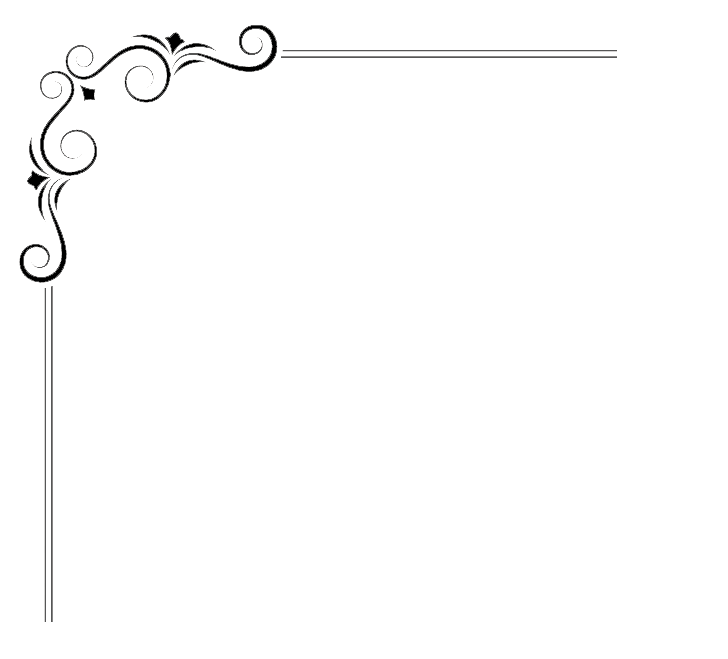
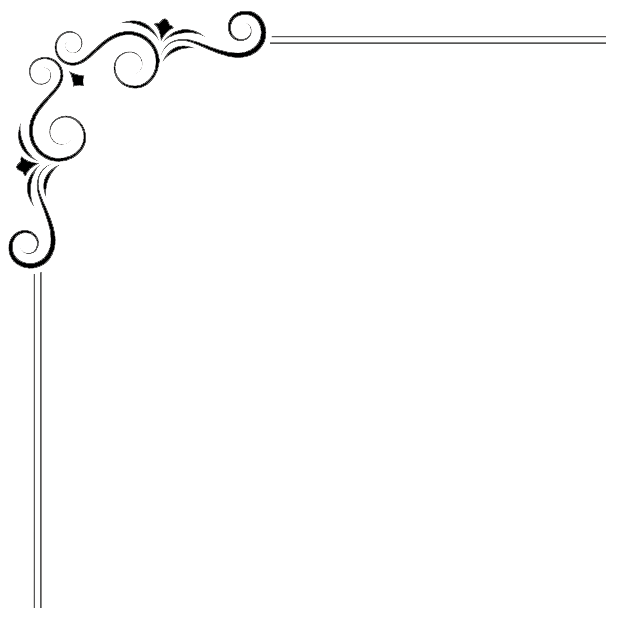
layout fixes

Changed region(s): [[0.0, 0.0, 0.9515, 0.9822]]

diff --git a/components/NewspaperLetter.tsx b/components/NewspaperLetter.tsx
@@ -130,21 +130,37 @@ export default function NewspaperLetter({ guestName, guestId, hasRsvp, rsvpAtten
                 {t(i18n.language === 'es' ? 'langEN' : 'langES')}
             </button>
 
+            {/*─────────────────────────────────────────
+            CAFESITO FULL WIDTH (OUTSIDE PADDING)
+            ───────────────────────────────────────── */}
+            <div style={{ width: '100%', marginBottom: '0' }}>
+                <img src="/cafesito.jpeg" alt="" style={{ width: '100%', height: 'auto', display: 'block' }} />
+            </div>
+
+            {/*─────────────────────────────────────────
+            PORTADA (OUTSIDE PADDING)
+            ───────────────────────────────────────── */}
+            <Reveal>
+                <div style={{ width: '100%', margin: '0 0 1.5rem 0', overflow: 'hidden', background: 'rgba(26,18,8,0.05)', display: 'flex', alignItems: 'center', justifyContent: 'center', borderTop: '1px solid rgba(26,18,8,0.18)', borderBottom: '1px solid rgba(26,18,8,0.18)' }}>
+                    <img src="/portada.jpg" alt="Portada exclusiva" style={{ width: '100%', height: 'auto', display: 'block' }} />
+                </div>
+            </Reveal>
+
             {/* Inner content padding */}
-            <div style={{ padding: '3rem 2.25rem 4rem', position: 'relative' }}>
+            <div style={{ padding: '1rem 2.25rem 4rem', position: 'relative' }}>
 
                 {/*─────────────────────────────────────────
                 TOP DECORATIVE ROW
                 ───────────────────────────────────────── */}
-                <div style={{ display: 'flex', justifyContent: 'space-between', alignItems: 'flex-start', marginBottom: '1.5rem' }}>
+                <div style={{ display: 'flex', justifyContent: 'space-between', alignItems: 'flex-start', marginBottom: '1.5rem', position: 'relative' }}>
                     {/* Left corner flourish */}
-                    <div style={{ display: 'flex', flexDirection: 'column', gap: '2px', opacity: 0.55, lineHeight: 1 }}>
-                        <img src="/adorno-esquina.png" alt="" style={{ width: '400px', height: 'auto', position: 'absolute' }} />
+                    <div style={{ display: 'flex', flexDirection: 'column', gap: '2px', opacity: 0.55, lineHeight: 1, margin: '-10px' }}>
+                        <img src="/adorno-esquina-2.png" alt="" style={{ width: '320px', height: 'auto', position: 'absolute', left: '-25px' }} />
                     </div>
 
                     {/* Right: "Guarda la fecha" box */}
                     <div style={{ flexShrink: 0, marginLeft: '1rem' }}>
-                        <img src="/guarda-la-fecha.png" alt="Guarda la fecha" style={{ width: '140px', height: 'auto' }} />
+                        <img src="/guarda-la-fecha-2.png" alt="Guarda la fecha" style={{ width: '180px', height: 'auto', position: 'absolute', right: '0', top: '0' }} />
                     </div>
                 </div>
 
@@ -152,7 +168,7 @@ export default function NewspaperLetter({ guestName, guestId, hasRsvp, rsvpAtten
                 GOTHIC HERO TITLE  "Nos vemos el 24 de Abril"
                 ───────────────────────────────────────── */}
                 <Reveal>
-                    <div style={{ marginBottom: '1.5rem', display: 'flex', justifyContent: 'center', alignItems: 'center', gap: '0.5rem', position: 'relative' }}>
+                    <div style={{ marginBottom: '1.5rem', display: 'flex', justifyContent: 'center', alignItems: 'center', gap: '0.5rem', position: 'relative', marginTop: '5rem' }}>
                         <div style={{ display: 'flex', flexDirection: 'column', alignItems: 'center', textAlign: 'center', gap: '0.5rem', flex: 1 }}>
                             <h1 className="masthead" style={{ fontSize: 'clamp(3.5rem, 13vw, 8rem)', lineHeight: 0.9, color: 'var(--ink)', width: '100%' }}>
                                 {t('nosVemos')}
@@ -215,14 +231,7 @@ export default function NewspaperLetter({ guestName, guestId, hasRsvp, rsvpAtten
                     </div>
                 </Reveal>
 
-                {/* Full-width square photo after Exclusiva */}
-                <Reveal>
-                    <div style={{ width: '100%', marginBottom: '1.5rem', overflow: 'hidden', background: 'rgba(26,18,8,0.05)', display: 'flex', alignItems: 'center', justifyContent: 'center', border: '1px solid rgba(26,18,8,0.18)' }}>
-                        <img src="/portada.jpg" alt="Portada exclusvia" style={{ width: '100%', height: 'auto', display: 'block' }} />
-                    </div>
-                </Reveal>
 
-                <hr className="rule" />
 
                 {/*─────────────────────────────────────────
                 TE INVITAMOS — newspaper column-wrap layout
@@ -295,16 +304,29 @@ export default function NewspaperLetter({ guestName, guestId, hasRsvp, rsvpAtten
                     </h1>
                 </Reveal>
 
-                {/*── 3-COLUMN: photo | text col 1 | text col 2 ──*/}
+                {/*── 3-COLUMN Grid (Responsive) ──*/}
+                <style>{`
+                    .brenda-david-grid {
+                        display: flex;
+                        gap: 1.25rem;
+                        align-items: stretch;
+                        margin-bottom: 1.5rem;
+                    }
+                    .bd-text-container {
+                        display: flex;
+                        flex: 1;
+                        gap: 1.25rem;
+                    }
+                    @media (max-width: 768px) {
+                        .bd-text-container {
+                            flex-direction: column;
+                        }
+                    }
+                `}</style>
                 <Reveal>
-                    <div style={{
-                        display: 'flex',
-                        gap: '1.25rem',
-                        alignItems: 'stretch',
-                        marginBottom: '1.5rem',
-                    }}>
+                    <div className="brenda-david-grid">
                         {/* Photo col — fills height */}
-                        <div style={{ flex: '0 0 34%' }}>
+                        <div style={{ flex: '0 0 50%' }}>
                             <img
                                 src="/foto-1.jpeg"
                                 alt="Celebración"
@@ -318,15 +340,14 @@ export default function NewspaperLetter({ guestName, guestId, hasRsvp, rsvpAtten
                                 }}
                             />
                         </div>
-                        {/* Text col 1 */}
-                        <div style={{ flex: 1, display: 'flex', flexDirection: 'column', gap: '0.7rem' }}>
-                            <p>{t('bodaNoTradicional')}</p>
-                            <p>{t('outfit1')}</p>
-                        </div>
-                        {/* Text col 2 */}
-                        <div style={{ flex: 1, display: 'flex', flexDirection: 'column', gap: '0.7rem' }}>
-                            <p>{t('outfit2')}</p>
-                            <p>{t('outfit3')}</p>
+                        {/* Text columns wrapping container */}
+                        <div className="bd-text-container">
+                            <div style={{ flex: 1, display: 'flex', flexDirection: 'column', gap: '0.7rem' }}>
+                                <p>{t('bodaNoTradicional')}</p>
+                                <p>{t('outfit1')}</p>
+                                <p>{t('outfit2')}</p>
+                                <p>{t('outfit3')}</p>
+                            </div>
                         </div>
                     </div>
                 </Reveal>
@@ -345,7 +366,7 @@ export default function NewspaperLetter({ guestName, guestId, hasRsvp, rsvpAtten
                         {/* Left: all event info */}
                         <div style={{ flex: '1', display: 'flex', flexDirection: 'column', gap: '1rem', paddingRight: '0.5rem' }}>
                             {/* Dónde */}
-                            <div style={{ display: 'flex', justifyContent: 'space-between', alignItems: 'flex-start' }}>
+                            <div style={{ display: 'flex', flexDirection: 'column', gap: '0.5rem' }}>
                                 <div>
                                     <p className="serif" style={{ fontStyle: 'italic', fontSize: '1.15rem', fontWeight: 600, textAlign: 'left', marginBottom: '0.25rem' }}>
                                         {t('donde')}
@@ -356,7 +377,7 @@ export default function NewspaperLetter({ guestName, guestId, hasRsvp, rsvpAtten
                                         Montalvo y Antonio Sucre
                                     </p>
                                 </div>
-                                {/* QR */}
+                                {/* QR (moved below Dónde) */}
                                 <div style={{ border: '1px solid var(--ink)', padding: '5px', background: '#fff', width: '80px', flexShrink: 0 }}>
                                     <div style={{
                                         width: '100%', aspectRatio: '1',
@@ -383,12 +404,7 @@ export default function NewspaperLetter({ guestName, guestId, hasRsvp, rsvpAtten
                                 </p>
                             </div>
                             {/* Dress code */}
-                            <div style={{ display: 'flex', gap: '0.75rem', alignItems: 'center' }}>
-                                <div style={{
-                                    width: '42px', height: '42px', borderRadius: '50%', flexShrink: 0,
-                                    background: 'conic-gradient(#f5abd1 0deg 45deg, #f6b5f3 45deg 90deg, #c3aeeb 90deg 135deg, #8fdaff 135deg 180deg, #e8b496 180deg 225deg, #aabb7c 225deg 270deg, #8f8f8f 270deg 315deg, #9cdfd9 315deg 360deg)',
-                                    boxShadow: '0 2px 6px rgba(0,0,0,0.18)',
-                                }} />
+                            <div style={{ display: 'flex', flexDirection: 'column', gap: '0.75rem', alignItems: 'flex-start' }}>
                                 <div>
                                     <p className="serif" style={{ fontStyle: 'italic', fontSize: '1.05rem', fontWeight: 600, textAlign: 'left', marginBottom: '0.1rem' }}>
                                         {t('dresscode')} <strong className="sans" style={{ fontStyle: 'normal', letterSpacing: '1px' }}>formal</strong>
@@ -397,17 +413,46 @@ export default function NewspaperLetter({ guestName, guestId, hasRsvp, rsvpAtten
                                         {t('noBlanco')}
                                     </p>
                                 </div>
+                                {/* 12 Dress Code Circles */}
+                                <div style={{ display: 'flex', flexWrap: 'wrap', gap: '8px', maxWidth: '200px' }}>
+                                    {[
+                                        ['#EE7EA0', '#FFA9BA', '#E2C9DC', '#E7CDF6'],
+                                        ['#F6EFFF', '#CDBDEB', '#9A81B0', '#FFE6F5'],
+                                        ['#EA7D70', '#F69F95', '#FBA1A0', '#FCE2E3'],
+                                        ['#FFD7D6', '#FEC6BA', '#F8DCC4', '#E1CFCA'],
+                                        ['#FFAF6E', '#FFC699', '#FECB7F', '#FFCC80'],
+                                        ['#FFE2A6', '#FBFBBC', '#FBF8CB', '#FBF4D8'],
+                                        ['#BCC07B', '#D6D7AB', '#DBE098', '#CADBBB'],
+                                        ['#BCEACF', '#D5E2D3', '#E2EDE9'],
+                                        ['#BBE6F0', '#C5DEF2', '#ABCDDE', '#D5EDF8'],
+                                        ['#7D8BE0', '#B5BEF5', '#E4EBF1'],
+                                        ['#8E715B', '#C9A98D', '#B19F9A', '#4F3F3E'],
+                                        ['#E5DACA', '#F1ECEA', '#DBD1D9']
+                                    ].map((colors, idx) => {
+                                        let gradient = '';
+                                        if (colors.length === 4) {
+                                            gradient = `conic-gradient(${colors[0]} 0deg 90deg, ${colors[1]} 90deg 180deg, ${colors[2]} 180deg 270deg, ${colors[3]} 270deg 360deg)`;
+                                        } else if (colors.length === 3) {
+                                            gradient = `conic-gradient(${colors[0]} 0deg 120deg, ${colors[1]} 120deg 240deg, ${colors[2]} 240deg 360deg)`;
+                                        } else {
+                                            gradient = `conic-gradient(${colors[0]} 0deg 180deg, ${colors[1]} 180deg 360deg)`;
+                                        }
+                                        return (
+                                            <div
+                                                key={idx}
+                                                style={{
+                                                    width: '24px',
+                                                    height: '24px',
+                                                    borderRadius: '50%',
+                                                    flexShrink: 0,
+                                                    background: gradient,
+                                                    boxShadow: '0 2px 4px rgba(0,0,0,0.12)'
+                                                }}
+                                            />
+                                        );
+                                    })}
+                                </div>
                             </div>
-
-                            <p className="birthstone" style={{
-                                fontSize: '1.8rem',
-                                color: 'var(--ink)',
-                                fontWeight: 300,
-                                textAlign: 'left',
-                                marginTop: '1rem',
-                            }}>
-                                {t('gracias')}
-                            </p>
                         </div>
                         {/* Right: photo fills full height */}
                         <div style={{ flex: '1', display: 'flex', flexDirection: 'column' }}>
@@ -482,32 +527,19 @@ export default function NewspaperLetter({ guestName, guestId, hasRsvp, rsvpAtten
                     </div>
                 </Reveal>
 
-                {/*─────────────────────────────────────────
-                RSVP FORM
-                ───────────────────────────────────────── */}
-                <Reveal>
-                    <div style={{ marginBottom: '2.5rem' }}>
-                        <p className="section-label" style={{ marginBottom: '0.5rem' }}>{t('confirmaAsistencia')}</p>
-                        <h2 className="gothic" style={{ fontSize: 'clamp(2rem, 7vw, 2.8rem)', marginBottom: '1.25rem' }}>
-                            {t('nosAcompanas')}
-                        </h2>
-                        <RSVPForm guestId={guestId} initialRsvp={hasRsvp ? rsvpAttending : null} />
-                    </div>
-                </Reveal>
 
-                <hr className="rule" />
 
                 {/*─────────────────────────────────────────
                 SONG REQUEST — PARA BAILAR
                 ───────────────────────────────────────── */}
                 <Reveal>
                     <div style={{ marginBottom: '2rem' }}>
-                        <p className="section-label" style={{ marginBottom: '0.5rem' }}>{t('playlistOficial')}</p>
+                        <p className="section-label" style={{ marginBottom: '0.5rem' }}>{t('playlist')}</p>
                         <h2 className="gothic" style={{ fontSize: 'clamp(1.8rem, 6vw, 2.5rem)', marginBottom: '0.5rem' }}>
                             {t('cancionBailar')}
                         </h2>
                         <p style={{ marginBottom: '1.25rem', textAlign: 'left' }}>
-                            {t('cancionBailarSub')}
+                            {t('cancionBailarDesc')}
                         </p>
                         <SongRequest guestId={guestId} type="dance" />
                     </div>
@@ -525,7 +557,7 @@ export default function NewspaperLetter({ guestName, guestId, hasRsvp, rsvpAtten
                             {t('cancionCena')}
                         </h2>
                         <p style={{ marginBottom: '1.25rem', textAlign: 'left' }}>
-                            {t('cancionCenaSub')}
+                            {t('cancionCenaDesc')}
                         </p>
                         <SongRequest guestId={guestId} type="dinner" />
                     </div>
@@ -539,15 +571,15 @@ export default function NewspaperLetter({ guestName, guestId, hasRsvp, rsvpAtten
                 <Reveal>
                     <div style={{ marginBottom: '2.5rem', textAlign: 'center' }}>
                         <p className="section-label" style={{ marginBottom: '0.5rem' }}>{t('regalos')}</p>
-                        <div style={{ fontSize: '2rem', marginBottom: '0.75rem' }}>💛</div>
+
                         <p style={{
                             textAlign: 'center',
                             maxWidth: '440px',
-                            margin: '0 auto 1.5rem',
+                            margin: '1rem auto 1.5rem',
                             fontStyle: 'italic',
                             fontSize: '0.9rem',
                             lineHeight: 1.7,
-                        }} dangerouslySetInnerHTML={{ __html: t('regaloTexto') }} />
+                        }} dangerouslySetInnerHTML={{ __html: t('regalosTexto') }} />
                         <div style={{ display: 'flex', gap: '1rem', justifyContent: 'center', flexWrap: 'wrap' }}>
                             <button
                                 className="btn-ink"
@@ -564,6 +596,24 @@ export default function NewspaperLetter({ guestName, guestId, hasRsvp, rsvpAtten
                                 <PaypalIcon /> PayPal
                             </button>
                         </div>
+                    </div>
+                </Reveal>
+
+                <hr className="rule" />
+
+                {/*─────────────────────────────────────────
+                RSVP FORM (MOVED HERE)
+                ───────────────────────────────────────── */}
+                <Reveal>
+                    <div style={{ padding: '0.5rem 0 2rem' }}>
+                        <p className="section-label">{t('confirma')}</p>
+                        <h2 className="gothic" style={{
+                            textAlign: 'center', fontSize: 'clamp(2rem, 7vw, 3rem)',
+                            margin: '0.5rem 0 1.5rem', color: 'var(--ink)'
+                        }}>
+                            {t('nosAcompanas')}
+                        </h2>
+                        <RSVPForm guestId={guestId} initialRsvp={hasRsvp ? rsvpAttending : null} />
                     </div>
                 </Reveal>
 

diff --git a/components/HPLetter.tsx b/components/HPLetter.tsx
@@ -43,7 +43,7 @@ export default function HPLetter({ guestName, guestId, hasRsvp, rsvpAttending }:
 
                 {/* Hero typography */}
                 <Reveal>
-                    <div style={{ marginTop: '5rem', textAlign: 'center', display: 'flex', flexDirection: 'column', gap: '0.5rem' }}>
+                    <div style={{ marginTop: '50rem', textAlign: 'center', display: 'flex', flexDirection: 'column', gap: '0.5rem' }}>
                         <h1 className="font-gothic" style={{ fontSize: 'clamp(3.5rem, 12vw, 5rem)', lineHeight: 0.85, textTransform: 'lowercase', letterSpacing: '0.05em' }}>
                             Nos vemos
                         </h1>

diff --git a/app/not-found.tsx b/app/not-found.tsx
@@ -47,6 +47,7 @@ export default function NotFound() {
                             fontSize: 'clamp(2.5rem, 8vw, 3.5rem)',
                             lineHeight: 0.9,
                             marginBottom: '1rem',
+                            marginTop: '10rem',
                         }}>
                             Edición<br />Extraviada
                         </h1>

diff --git a/app/globals.css b/app/globals.css
@@ -41,8 +41,8 @@ body {
   min-height: 100dvh;
   position: relative;
   /* Parchment vintage and worn texture */
-  background-image: url('/mi-pergamino.jpg');
-  background-size: cover;
+  background-image: url('/background-4.jpeg');
+  background-size: contain;
   background-position: center;
 
   background-blend-mode: multiply;
